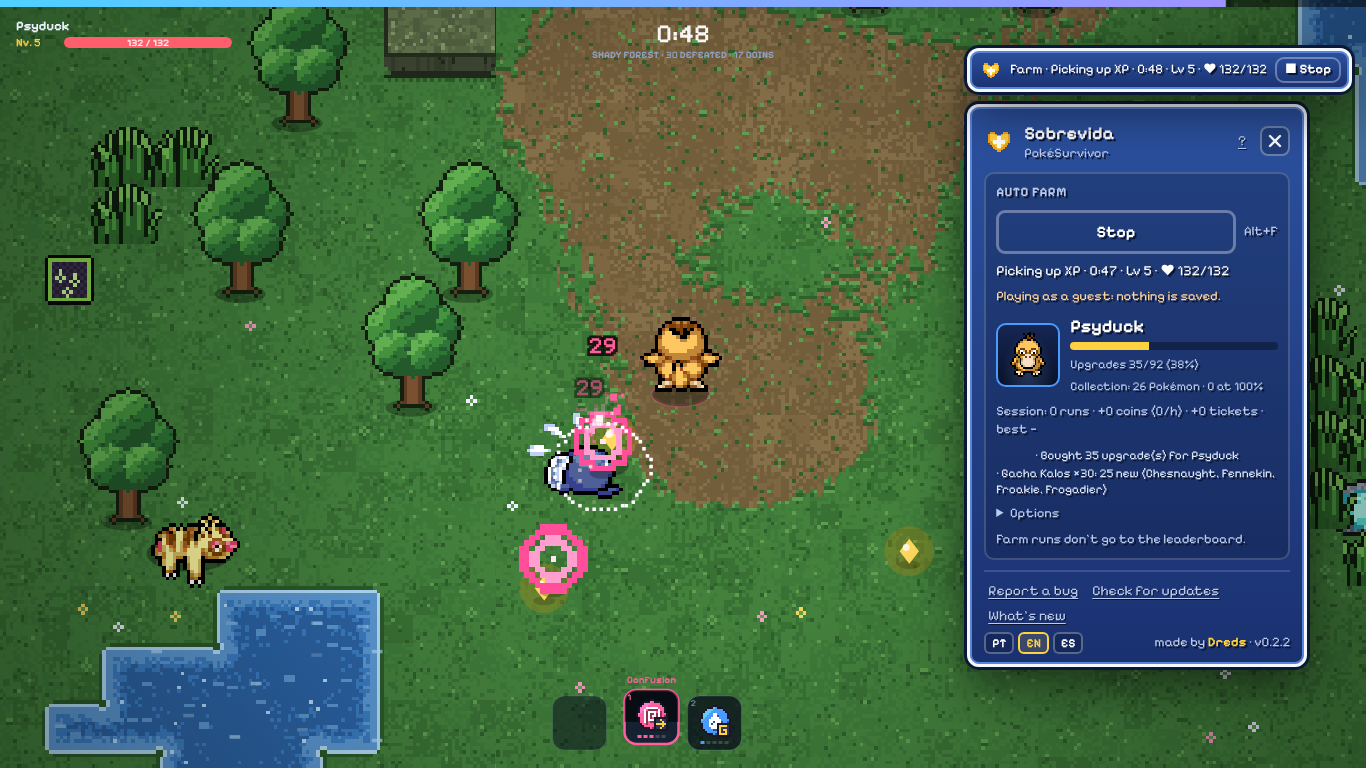
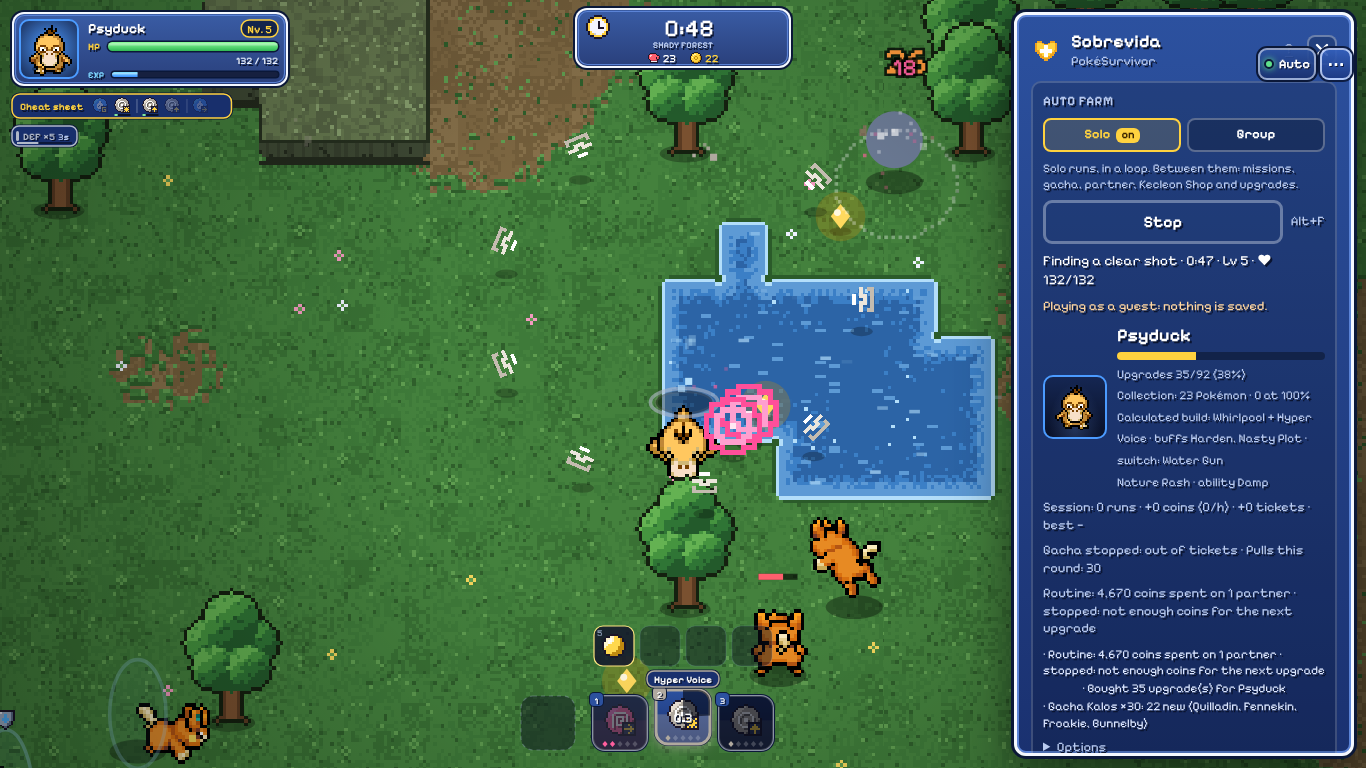
docs: refresh the farm screenshots (Auto + ⋯, panel, menu footer v0.12.6) and fix tests/prints-github.cjs

diff --git a/README.md b/README.md
@@ -13,7 +13,7 @@ Choose your partner Pokémon before the 8-question personality quiz and get exac
 
 **Works on:** Chrome · Edge · Brave · Opera GX
 
-<img src="docs/sobrevida-farm-menu.png" width="720" alt="PokéSurvivor's main menu with the Sobrevida panel open on the left, in the game's blue Mystery Dungeon style: AUTO FARM with a gold Start farm button and Alt+F, the partner Psyduck with Upgrades 0/92, Options, and the footer Report a bug, Check for updates, What's new, PT EN ES and made by Dreds v0.2.1">
+<img src="docs/sobrevida-farm-menu.png" width="720" alt="PokéSurvivor's main menu with the Sobrevida panel open on the left, in the game's blue Mystery Dungeon style: AUTO FARM with Solo and Group tabs, a gold Start farm button and Alt+F, the partner Psyduck with Upgrades 0/92, the Options and farm bar switches, and the footer Report a bug, Check for updates, What's new, Support, PT EN ES and made by Dreds v0.12.6">
 
 </div>
 
@@ -49,7 +49,7 @@ Open the heart menu and press **Start farm** (or **Alt+F** anywhere in the game)
 - **Never on the leaderboard.** Farm runs are blocked from the game's leaderboard twice: the game's submit is skipped, and the request that seals a run on PokéSurvivor's server is blocked by the browser before it leaves.
 - **A panel that says what it's doing:** the current task or move, level and HP, your partner's upgrade progress, coins and tickets per hour, and the last things it did. During a run, a small **Auto** button in the top-right corner (out of the way of the game) turns the farm on and off: grey dot = off, green dot = on, amber with a short note when the farm can't play right now. The **⋯** next to it opens the menu, so you can open it or hand the run over to the farm at any moment. The earlier full bar (status plus Stop/Start) comes back if you pick **full** under *Farm bar during a run* in the menu. Every step can be turned off under *Options*.
 
-<img src="docs/sobrevida-farm-run.png" width="420" alt="A run in progress in a forest with the Sobrevida bar in the top-right corner: Farm, Picking up XP, 0:46, Lv 5, 147/147 HP and a Stop button">&nbsp;&nbsp;<img src="docs/sobrevida-farm-panel.png" width="420" alt="The Sobrevida panel open under the bar during a run: Stop, Picking up XP at 0:47 level 5, partner Slurpuff with Upgrades 35/92, collection 27 Pokémon, and the log: bought 35 upgrades, partner Psyduck to Slurpuff, Gacha Kalos x30 with 26 new">
+<img src="docs/sobrevida-farm-run.png" width="420" alt="A run in progress in a forest, played by the farm: the game's Pokémon card top-left (Psyduck, Lv 5, 132/132 HP), the run clock at 0:47 top-center, and in the top-right corner the small Sobrevida Auto button with a green dot next to the ⋯ menu button">&nbsp;&nbsp;<img src="docs/sobrevida-farm-panel.png" width="420" alt="The Sobrevida panel opened with the ⋯ button during a run: AUTO FARM with Solo on, a Stop button, the status Finding a clear shot at 0:47 level 5, partner Psyduck with Upgrades 35/92 and 23 Pokémon in the collection, and the log of what it did: upgrades bought and Gacha Kalos x30 with 22 new">
 
 **Co-op.** The farm has a separate **Group** mode (a tab next to **Solo** in the heart menu) for runs with your friends, as the host or as a guest: each player steers their own Pokémon, so it only plays yours. In a group run it plays as a teammate: when a friend goes down it goes to them and stays close until they're back up (the game needs you right next to them for 3 seconds), it keeps near the group without sticking to anyone, and it leaves gems, chests, altars and thieves that are closer to a friend to them (XP is shared by the team). As a guest, turn it on **before** the group run starts (a group run that started with the farm off is left alone); the host can turn it on at any time. In a room it never touches the menu between runs (no gacha, partner switch or solo run) and doesn't leave the results screen by itself. A group run with the farm on never reaches the leaderboard, for anyone in the group: the game only posts a group run with every member's seal, and Sobrevida blocks yours.
 
